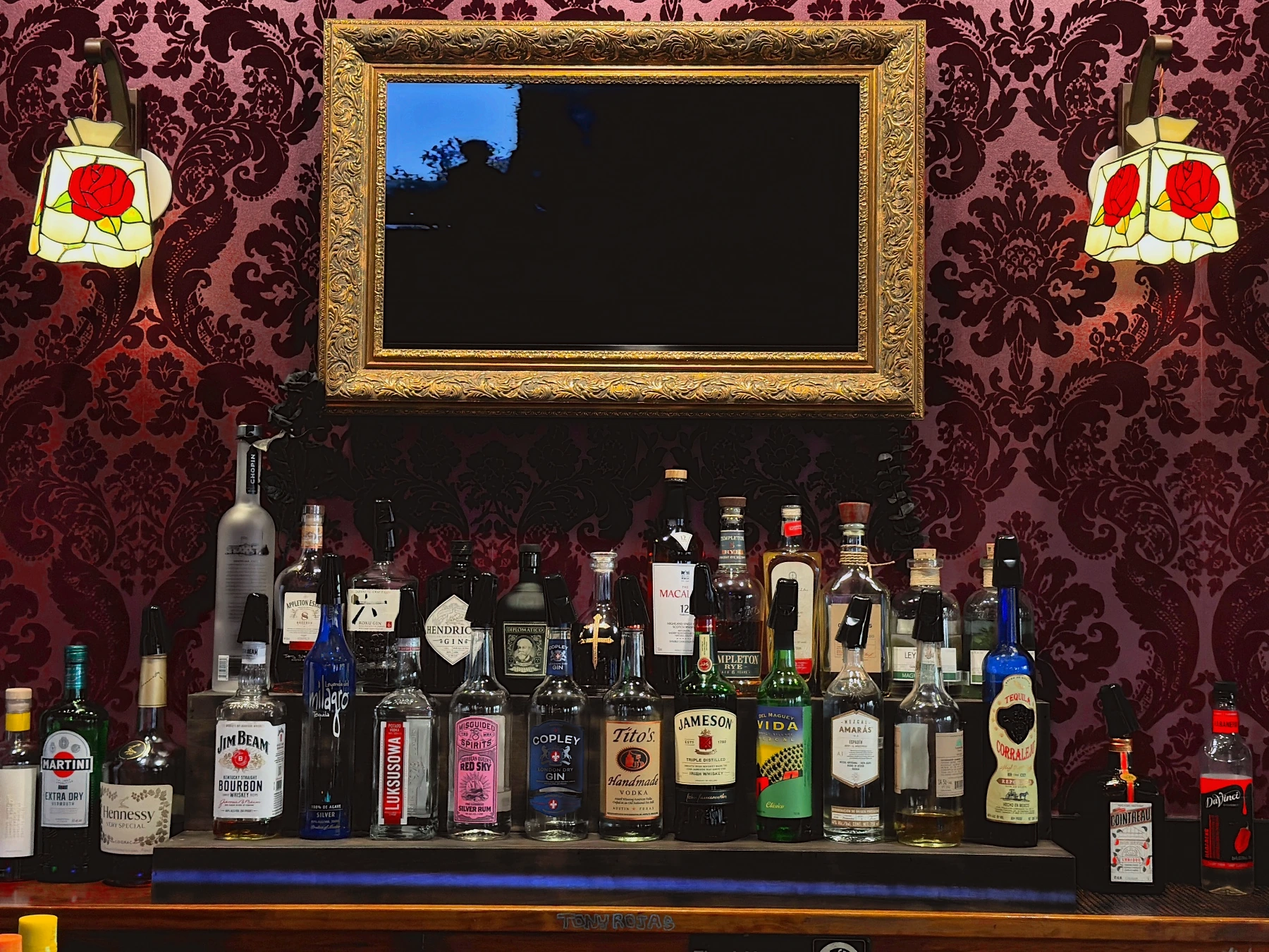
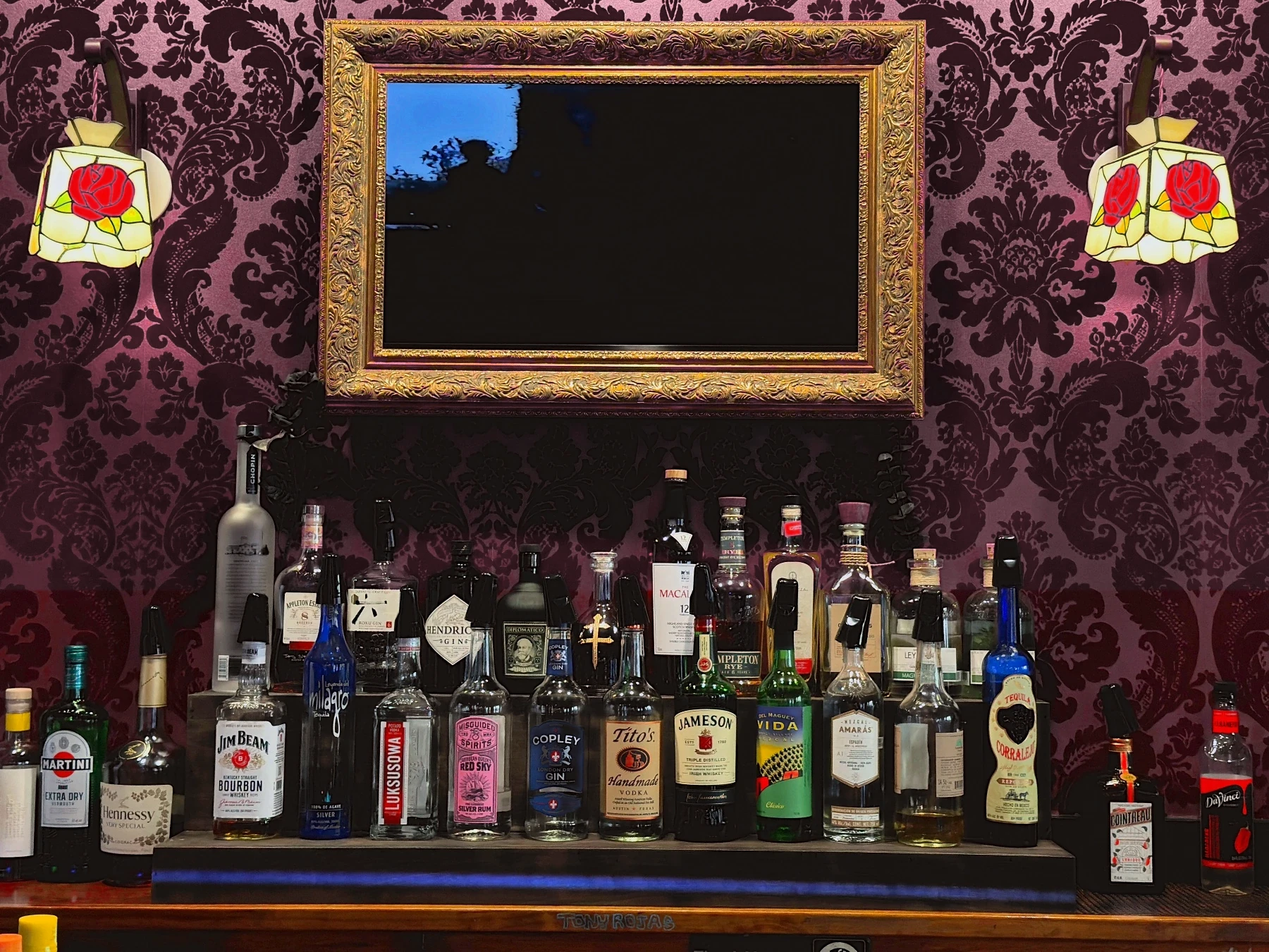
Plum bar wallpaper restored; stitched bar-and-room panorama on About (#12)
- Recolour the wallpaper in the edited bar and Inside photos back to its
  real plum (the colour boost had pushed it red); lamp roses stay red
- Stitch two bar photos into one wider view of the bar and the room
  toward the door, used as the About page backdrop
- Lighter amber grade so purples do not drift pink

Claude-Session: https://claude.ai/code/session_01HusjgDpgfGaqFJdQNsupdo

diff --git a/src/lib/seed.ts b/src/lib/seed.ts
@@ -86,6 +86,11 @@ export const legacySeedContent: SiteContent = {
       "Records and seating by the front window.",
     ),
     photo(
+      "bar-room-wide",
+      "The bar and the room",
+      "The bar under plum damask wallpaper, stools along the counter and the room toward the front door.",
+    ),
+    photo(
       "record-bins",
       "Dig through the bins",
       "A close view of the vinyl record bins.",
@@ -217,8 +222,8 @@ export const legacySeedContent: SiteContent = {
       "Records. Drinks.\nGood company.",
       "ABOUT PIXELATED",
       "Pixelated Records is a record shop, bar, and event space in Ridgewood, New York. A place for crate digging, a drink with a friend, and whatever the night brings.",
-      "/assets/shop-window.webp",
-      "The record shop and front window at Pixelated Records.",
+      "/assets/bar-room-wide.webp",
+      "The bar under plum damask wallpaper and the room toward the front door at Pixelated Records.",
     ),
     page(
       "records",

diff --git a/src/lib/photo-assets.ts b/src/lib/photo-assets.ts
@@ -17,6 +17,12 @@ const roomPhotos = {
     small: "/assets/bar-rich-solid-small.webp",
     width: 1448,
   },
+  // Two photos of the bar stitched into one wider view (wallpaper is plum).
+  "/assets/bar-room-wide.webp": {
+    src: "/assets/bar-room-wide.webp",
+    small: "/assets/bar-room-wide-small.webp",
+    width: 1968,
+  },
   "/assets/interior.webp": {
     src: "/assets/interior-solid.webp",
     small: "/assets/interior-solid-small.webp",

diff --git a/src/app/photo-layout.css b/src/app/photo-layout.css
@@ -1106,7 +1106,7 @@
     .space-photo img,
     .about-image img
   ) {
-  filter: sepia(0.14) saturate(1.14) brightness(1.06) contrast(1.02);
+  filter: sepia(0.08) saturate(1.1) brightness(1.06) contrast(1.02);
 }
 .public-site.photo-layout :is(.page-photo-backdrop, .space-photo, .about-image),
 .public-site.photo-layout .interior-scene .scene-plane {
